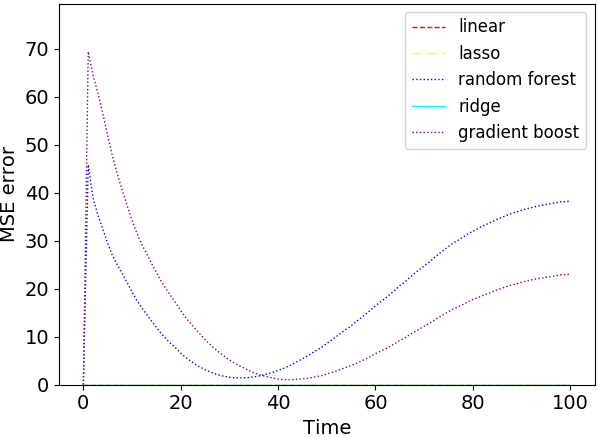
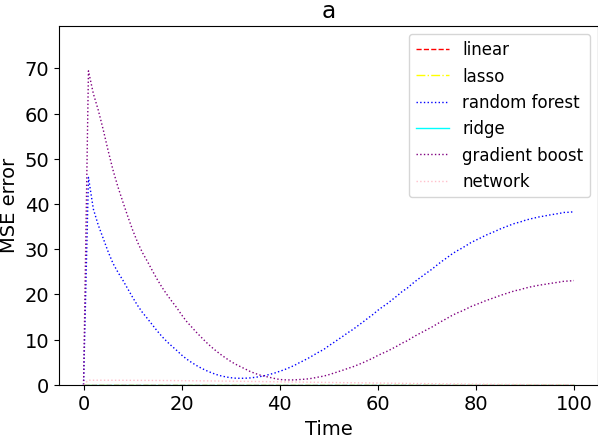
add example also with neural network

diff --git a/plotter.py b/plotter.py
@@ -144,7 +144,11 @@ def merge_samples(contents, configs):
 
 def plot(config,content,nf,pformat):
   title = list(map("=".join,config))
-  if doWrap is not None: title = wrap("    ".join(title), 30)result
+  if doWrap is not None: title = wrap("    ".join(title), 30)
+  title = "\n".join([s.strip() for k,s in enumerate(title) if k not in excluded_titles[nf]])
+  parts_suffix = "_".join(map("-".join,config))
+
+  plt.figure() # (figsize=(10,10), dpi=80)
   plt.xlabel(the_plots_labels[pformat[0]])
   plt.ylabel(y_labels[nf] if len(y_labels)>nf else "")
   maxy = float("-inf")
@@ -333,5 +337,4 @@ for nf, pformat in enumerate(the_plots_formats):
 
 if bucketize:
   contents = do_bucketize(contents)
-
 
